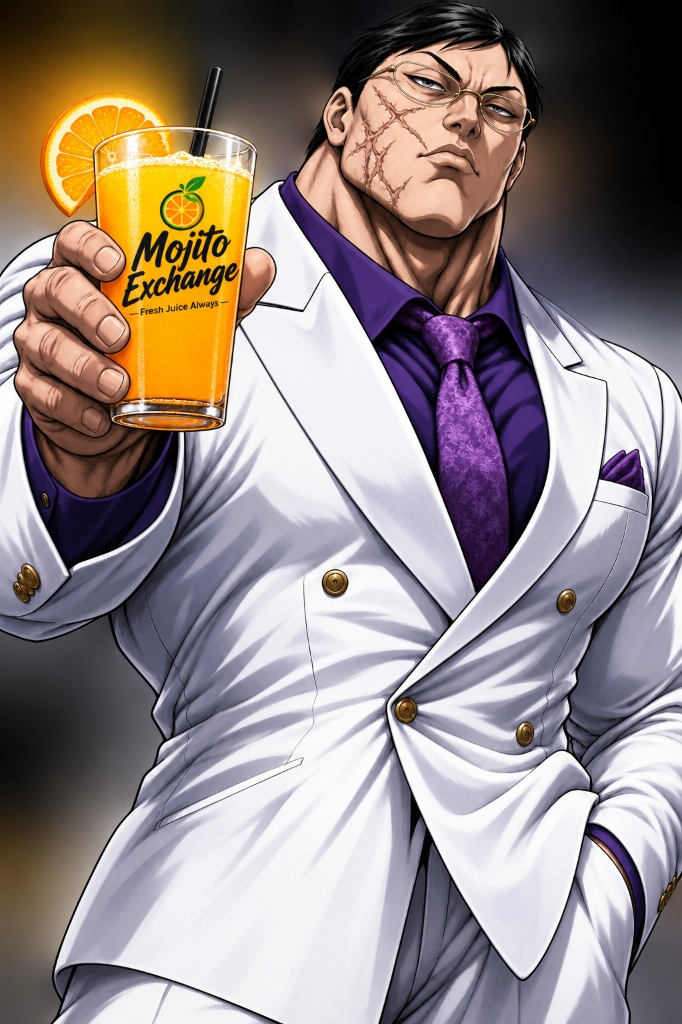
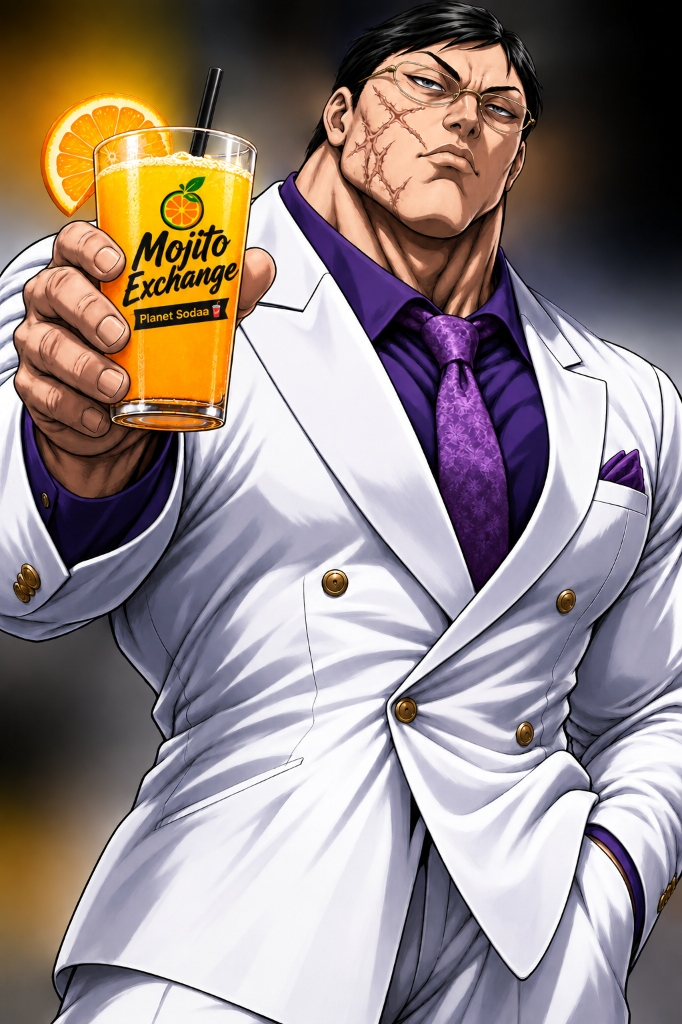
feat: update mascot image with Planet Sodaa edition

diff --git a/customer-web/src/led-display.html b/customer-web/src/led-display.html
@@ -1666,10 +1666,10 @@
       <!-- Mojito Exchange Mascot Card — Ultra HD Edition -->
       <div class="naruto-mascot-card">
         <div class="naruto-img-wrapper">
-          <img src="assets/mascot.jpg?v=mojito_hd" alt="Mojito Exchange Official Mascot" onerror="this.onerror=null; this.src='mascot.jpg?v=mojito_hd';" />
-          <div class="naruto-badge">🍊 MOJITO EXCHANGE • MASCOT</div>
+          <img src="assets/mascot.jpg?v=planet_sodaa_v2" alt="Mojito Exchange Planet Sodaa Official Mascot" onerror="this.onerror=null; this.src='mascot.jpg?v=planet_sodaa_v2';" />
+          <div class="naruto-badge">🥤 MOJITO EXCHANGE • PLANET SODAA</div>
         </div>
-        <div class="naruto-quote">"🍹 Fresh Juice Always — Savor Flavors at Live Market Rates!"</div>
+        <div class="naruto-quote">"🥤 Planet Sodaa — Savor Fresh Flavors at Live Market Rates!"</div>
       </div>
 
     </div>
